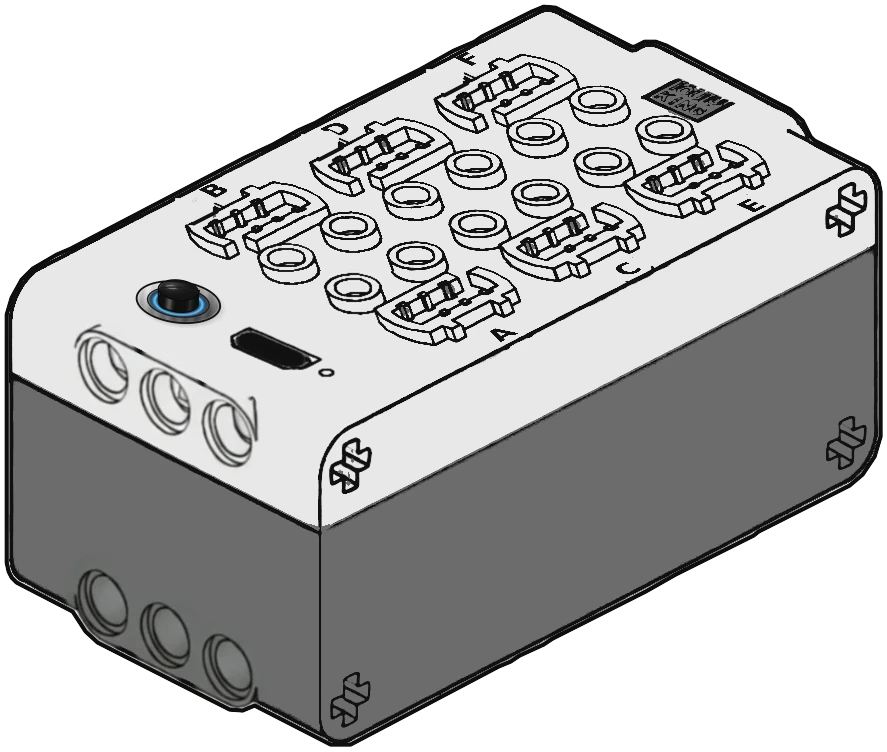
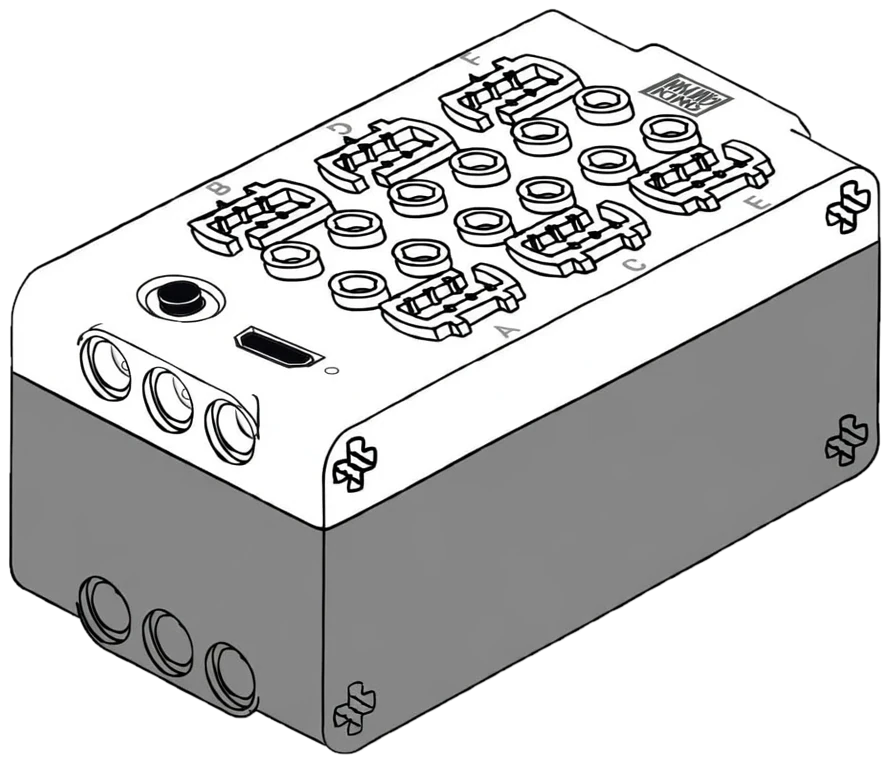
Hub 6.0: the user's cleaned-up hub drawing (no white edge), LED on its dot; hub 4.0: colour tags A-D on the connectors
Claude-Session: https://claude.ai/code/session_01RxQ4QJZ9M2VY5cz1gsySH8

diff --git a/app/src/main/assets/app.js b/app/src/main/assets/app.js
@@ -6434,7 +6434,7 @@ var HM=[[-0.53579,-0.46667,1307.89668],[0.25023,-0.3043,143.12769]],HK=.6,HWH=[1
 // AZ = picture px per stud upward, K scales the picture. P: centre of each port's contact half on the plan and the way its
 // cable leaves; the stud half of the connector sits on the two hub studs inward.
 var HUBS={
- '6':{led:[325.7,372.4,7.5,4.6],img:'img/pf/hub6.webp',WH:[887,752],M:[[0.384615, 0.390769, -694.551], [-0.196923, 0.181538, 365.845]],K:42/63,AZ:63,
+ '6':{led:[331.5,370.0,7.5,4.6],img:'img/pf/hub6.webp',WH:[890,763],M:[[0.384615, 0.390769, -690.551], [-0.196923, 0.181538, 363.845]],K:42/63,AZ:63,
   P:{A:[1541.74,1382.68,0,1,'f'],B:[1541.74,895.18,0,-1,'b'],C:[1867.6,1382.68,0,1,'f'],D:[1867.6,895.18,0,-1,'b'],E:[2192.03,1382.68,0,1,'f'],F:[2192.03,895.18,0,-1,'b']}},
  '4':{led:[531,227,22,13],ledPoly:[[470,224],[527,199],[594,227],[533,255]],img:'img/pf/hub4.webp',WH:[1003,846],M:[[0.508856, 0.519224, -1521.952875], [-0.248186, 0.252122, 425.916552]],K:42/103.198,AZ:103.198,
   P:{A:[1950.0,1746.15,-1,0,'ab'],B:[1950.0,1420.86,-1,0,'ab'],C:[2762.5,1420.86,1,0,'cd'],D:[2762.5,1746.15,1,0,'cd']}}};
@@ -6444,7 +6444,7 @@ var HUBS={
 // 6.0: b = B D F (cable to the back), f = A C E (to the front); 4.0: ab = A B (mouth to the A/B end), cd = C D (to the C/D end)
 var PLUGS={b:{W:429,H:367,ex:[40,95]},f:{W:439,H:334,ex:[372,252]},cd:{W:394,H:347,ex:[280,140]},ab:{W:391,H:318,ex:[110,184]}};
 // where each port's connector picture sits on the hub picture (svg matrix a b c d e f, hub picture px)
-var PLUGM={'6':{A:[0.5850,0,0,0.5850,280.98,176.00],B:[0.5750,0,0,0.5750,160.98,96.00],C:[0.5800,0,0,0.5800,405.98,112.00],D:[0.5750,0,0,0.5750,284.98,32.00],E:[0.5800,0,0,0.5800,529.98,49.00],F:[0.5750,0,0,0.5750,408.98,-31.00]},'4':{A:[1.5113,0.0000,0.0000,1.5113,130.6452,81.8893],B:[1.5113,0.0000,0.0000,1.5113,-38.1087,-0.0532],C:[1.4500,0.0012,-0.0012,1.4500,301.1719,-181.3803],D:[1.4500,0.0012,-0.0012,1.4500,469.9258,-99.4378]}};
+var PLUGM={'6':{A:[0.5850,0,0,0.5850,284.98,174.00],B:[0.5750,0,0,0.5750,164.98,94.00],C:[0.5800,0,0,0.5800,409.98,110.00],D:[0.5750,0,0,0.5750,288.98,30.00],E:[0.5800,0,0,0.5800,533.98,47.00],F:[0.5750,0,0,0.5750,412.98,-33.00]},'4':{A:[1.5113,0.0000,0.0000,1.5113,130.6452,81.8893],B:[1.5113,0.0000,0.0000,1.5113,-38.1087,-0.0532],C:[1.4500,0.0012,-0.0012,1.4500,301.1719,-181.3803],D:[1.4500,0.0012,-0.0012,1.4500,469.9258,-99.4378]}};
 var HKIND='',HIMG='',PORTS={};
 // stacked connector: a second plug pressed onto the first (same channel); its key is the port letter + '2'
 function isStk(k){return k&&k.length===2&&k.charAt(1)==='2'}
@@ -6514,7 +6514,8 @@ function plugExit(k){var g=plg(k),c=LP(g,0,PLO),z=HZ+PZ*.32,p=W(c[0],c[1],z),q=W
  var T=plugT(k);if(T.P.ex) p=plugPt(T,T.P.ex[0],T.P.ex[1]);
  return {x:p[0],y:p[1],ox:dx/l,oy:dy/l,top:!!(SLOT[k]&&SLOT[k].top)}}
 // colour tag on the plug head, drawn in the plug picture's own pixels so it follows the plug exactly
-var PTAG={f:{c:[348,146],a:[100,-54.4],b:[63,32.7],sa:.47,sb:.45},b:{c:[86,46],a:[101.7,-55.3],b:[63,32.7],sa:.45,sb:.40}};
+var PTAG={f:{c:[348,146],a:[100,-54.4],b:[63,32.7],sa:.47,sb:.45},b:{c:[86,46],a:[101.7,-55.3],b:[63,32.7],sa:.45,sb:.40},
+ ab:{c:[124,139],a:[106,-55],b:[64,27],sa:.12,sb:.42},cd:{c:[284,100],a:[60,-30],b:[60,30],sa:.34,sb:.34}};   // 4.0: on the plug's cable-end top
 function plugTag(k,T){if(ST[k+'2']&&ST[k+'2'].t) return '';var L0=baseOf(k),t=PTAG[PORTS[k][4]],col=PCOL[L0];if(!t||!col) return '';
  var P=function(i,j){return plugPt(T,t.c[0]+i*t.a[0]+j*t.b[0],t.c[1]+i*t.a[1]+j*t.b[1])},A=t.sa,B=t.sb;
  var q=[P(-A,-B),P(A,-B),P(A,B),P(-A,B)].map(function(p){return p[0].toFixed(1)+','+p[1].toFixed(1)}).join(' ');
